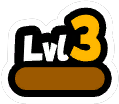
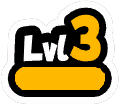
edit asset + mirror all player img

Changed region(s): [[0.1261, 0.6346, 0.8824, 0.8654]]

diff --git a/game/game.js b/game/game.js
@@ -134,6 +134,7 @@ function renderRandomAnimals() {
     animalImage.alt = animal.name;
     animalImage.style.aspectRatio = "1/1";
     animalImage.setAttribute("draggable", true);
+    animalImage.style.transform = "scaleX(-1)";
     animalImage.addEventListener("dragstart", (event) => {
       hideHoverInfo();
       event.dataTransfer.setData("text/plain", index); // Existing data
@@ -260,6 +261,7 @@ function renderBattleSlots() {
       animalImg.style.maxHeight = "100%";
       animalImg.style.maxWidth = "100%";
       animalImg.style.aspectRatio = "1/1";
+      animalImg.style.transform = "scaleX(-1)";
       animalImg.draggable = true;
 
       // Attach drag events
@@ -310,13 +312,16 @@ function renderTeams() {
       const img = new Image();
       img.src = animal.img;
       img.onload = () => {
-        ctx.drawImage(
-          img,
-          teamOffsetX + (maxSlots - 1 - index) * 100,
-          commonY,
-          80,
-          80
-        );
+        ctx.save(); // Save the canvas state
+        // Translate and flip horizontally
+        const xPosition = teamOffsetX + (maxSlots - 1 - index) * 100;
+        const yPosition = commonY;
+        ctx.translate(xPosition + 40, yPosition + 40); // Center of the image
+        ctx.scale(-1, 1); // Flip horizontally
+        ctx.drawImage(img, -40, -40, 80, 80); // Adjust for the flipped state
+        ctx.restore(); // Restore the canvas state
+
+        // Draw fist and stats (unmirrored)
         ctx.drawImage(
           fistImg,
           teamOffsetX + (maxSlots - 1 - index) * 100,
@@ -348,6 +353,7 @@ function renderTeams() {
       };
     }
   });
+
   enemyLineup.forEach((animal, index) => {
     if (animal) {
       const img = new Image();
@@ -495,8 +501,15 @@ function animateAnimalsIntoPosition(onComplete) {
 
         const currentX = startX + (endX - startX) * adjustedProgress;
         const targetY = commonY - bounceY;
-
-        ctx.drawImage(img, currentX, targetY, 80, 80);
+        
+         ctx.save();
+         // Translate and flip horizontally
+         ctx.translate(currentX + 40, targetY + 40); // Center of the image
+         ctx.scale(-1, 1); // Flip horizontally
+         // Draw the image (adjusted for the flipped state)
+         ctx.drawImage(img, -40, -40, 80, 80);
+         // Restore the canvas state
+         ctx.restore();
       }
     });
 
@@ -685,7 +698,11 @@ function animateHeadbutt(playerAnimal, enemyAnimal, onComplete) {
     const playerX = playerStartX - (playerStartX - centerX) * progress;
     const enemyX = enemyStartX + (centerX + 60 - enemyStartX) * progress;
 
-    ctx.drawImage(playerImg, playerX, playerY, 80, 80);
+    ctx.save();
+    ctx.translate(playerX + 40, playerY + 40); // Center of the player's image
+    ctx.scale(-1, 1); // Flip horizontally
+    ctx.drawImage(playerImg, -40, -40, 80, 80);
+    ctx.restore();
     ctx.drawImage(fistImg, playerX, playerY + 60, 40, 40);
     ctx.drawImage(heartImg, playerX + 40, playerY + 60, 40, 40);
     ctx.fillStyle = "white";
@@ -762,7 +779,11 @@ function animateHeadbutt(playerAnimal, enemyAnimal, onComplete) {
       const playerX = centerX + (playerStartX - centerX) * progress;
       const enemyX = centerX + 60 + (enemyStartX - centerX - 60) * progress;
 
-      ctx.drawImage(playerImg, playerX, playerY, 80, 80);
+       ctx.save();
+       ctx.translate(playerX + 40, playerY + 40); // Center of the player's image
+       ctx.scale(-1, 1); // Flip horizontally
+       ctx.drawImage(playerImg, -40, -40, 80, 80);
+       ctx.restore();
       ctx.drawImage(fistImg, playerX, playerY + 60, 40, 40);
       ctx.drawImage(heartImg, playerX + 40, playerY + 60, 40, 40);
       ctx.fillStyle = "white";
@@ -775,7 +796,6 @@ function animateHeadbutt(playerAnimal, enemyAnimal, onComplete) {
       let healthX = playerX + 60 - healthTextWidth / 2;
       ctx.fillText(attackText, attackX, playerY + 85);
       ctx.fillText(healthText, healthX, playerY + 85);
-
       ctx.drawImage(enemyImg, enemyX, enemyY, 80, 80);
       ctx.drawImage(fistImg, enemyX, enemyY + 60, 40, 40);
       ctx.drawImage(heartImg, enemyX + 40, enemyY + 60, 40, 40);
@@ -840,7 +860,12 @@ function showDamage(
   function drawExpandingDamage() {
     ctx.clearRect(0, 0, canvas.width, canvas.height);
     renderFullTeam();
-    ctx.drawImage(playerImg, playerX, commonY, 80, 80);
+     ctx.save();
+     ctx.translate(playerX + 40, commonY + 40); // Center of the player's image
+     ctx.scale(-1, 1); // Flip horizontally
+     ctx.drawImage(playerImg, -40, -40, 80, 80);
+     ctx.restore();
+    // ctx.drawImage(playerImg, playerX, commonY, 80, 80);
     ctx.drawImage(fistImg, playerX, commonY + 60, 40, 40);
     ctx.drawImage(heartImg, playerX + 40, commonY + 60, 40, 40);
     ctx.drawImage(enemyImg, enemyX, commonY, 80, 80);
@@ -899,7 +924,11 @@ function showDamage(
   function drawShrinkingDamage() {
     ctx.clearRect(0, 0, canvas.width, canvas.height);
     renderFullTeam();
-    ctx.drawImage(playerImg, playerX, commonY, 80, 80);
+     ctx.save();
+     ctx.translate(playerX + 40, commonY + 40); // Center of the player's image
+     ctx.scale(-1, 1); // Flip horizontally
+     ctx.drawImage(playerImg, -40, -40, 80, 80);
+     ctx.restore();
     ctx.drawImage(fistImg, playerX, commonY + 60, 40, 40);
     ctx.drawImage(heartImg, playerX + 40, commonY + 60, 40, 40);
     ctx.drawImage(enemyImg, enemyX, commonY, 80, 80);
@@ -958,13 +987,17 @@ function renderFullTeam() {
   battleLineup.forEach((animal, index) => {
     if (animal && index !== 0) {
       const xPos = teamOffsetX + (maxSlots - 1 - index) * 100;
+      ctx.save(); // Save the current state of the canvas
+      ctx.translate(xPos + imgSize / 2, commonY + imgSize / 2); // Move to the center of the image
+      ctx.scale(-1, 1); // Flip horizontally
       ctx.drawImage(
         getAnimalImage(animal.img),
-        xPos,
-        commonY,
+        -imgSize / 2, // Adjust for flipped coordinates
+        -imgSize / 2,
         imgSize,
         imgSize
       );
+      ctx.restore(); // Restore the canvas state
       ctx.drawImage(fistImg, xPos, commonY + 60, iconSize, iconSize);
       ctx.drawImage(heartImg, xPos + 40, commonY + 60, iconSize, iconSize);
       ctx.fillStyle = "white";
@@ -1065,8 +1098,17 @@ function animateDeathFlyOff(animal, index, teamType, onComplete) {
       (1 - progress) * (1 - progress) * startY +
       2 * (1 - progress) * progress * controlPointY +
       progress * progress * (startY + 100);
-    ctx.drawImage(img, curveX, curveY, 60, 60);
-
+        ctx.save(); 
+     if (teamType === "player") {
+       // Mirror the image if it's the player's team
+       ctx.translate(curveX + 30, curveY + 30); // Center of the image
+       ctx.scale(-1, 1); // Flip horizontally
+       ctx.drawImage(img, -30, -30, 60, 60); // Adjust for flipped coordinates
+     } else {
+       // Draw normally for the enemy team
+       ctx.drawImage(img, curveX, curveY, 60, 60);
+     }
+ ctx.restore(); 
     currentFrame += deltaTime * totalFrames * 2; // Increase the increment to make it faster
     if (currentFrame < totalFrames) {
       requestAnimationFrame(animate);

diff --git a/game/index.css b/game/index.css
@@ -38,6 +38,7 @@ body {
   justify-content: center;
   align-items: center;
   cursor: default;
+  aspect-ratio: 1 / 1;
 }
 .animal {
   pointer-events: none;
